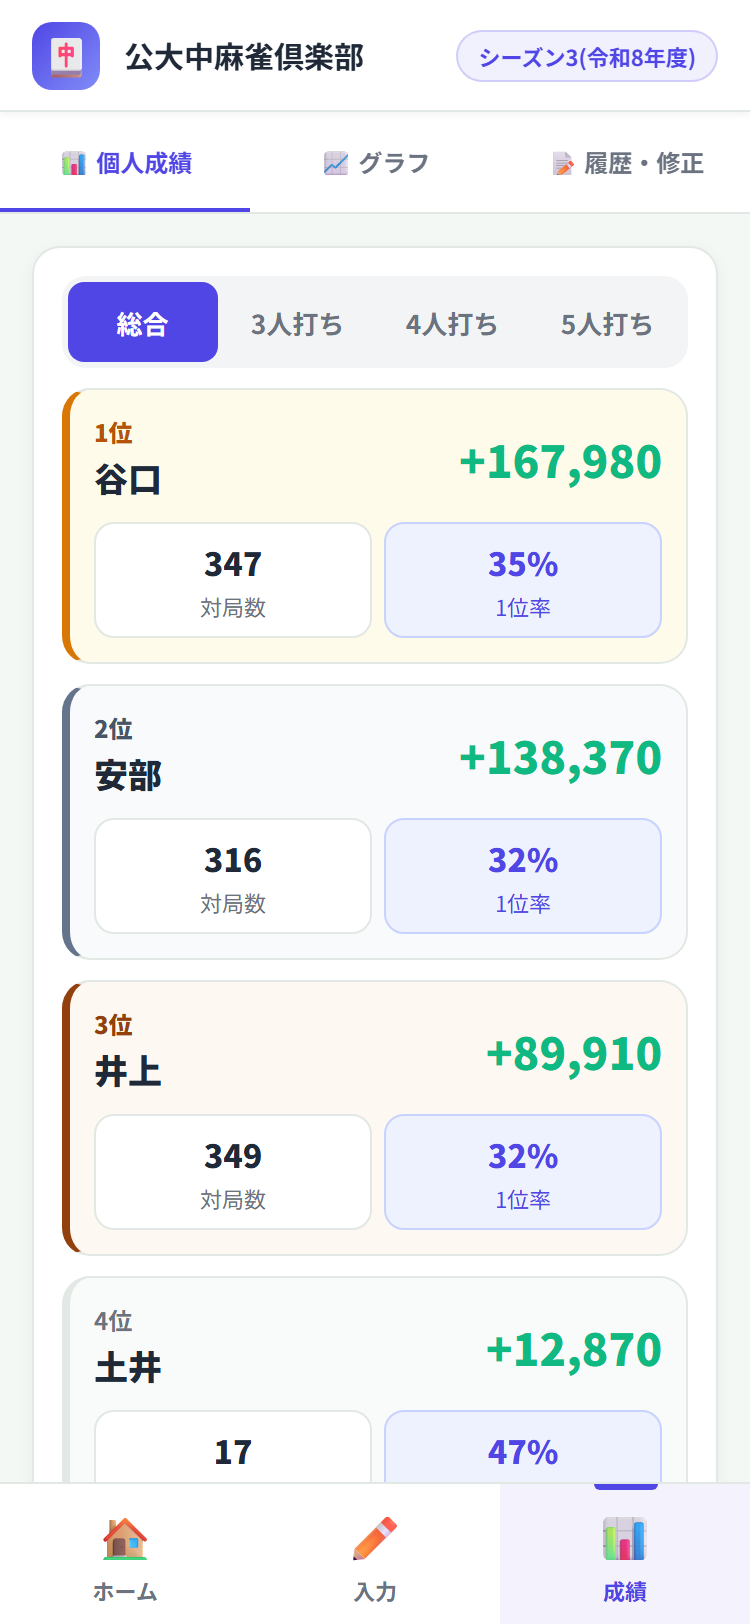
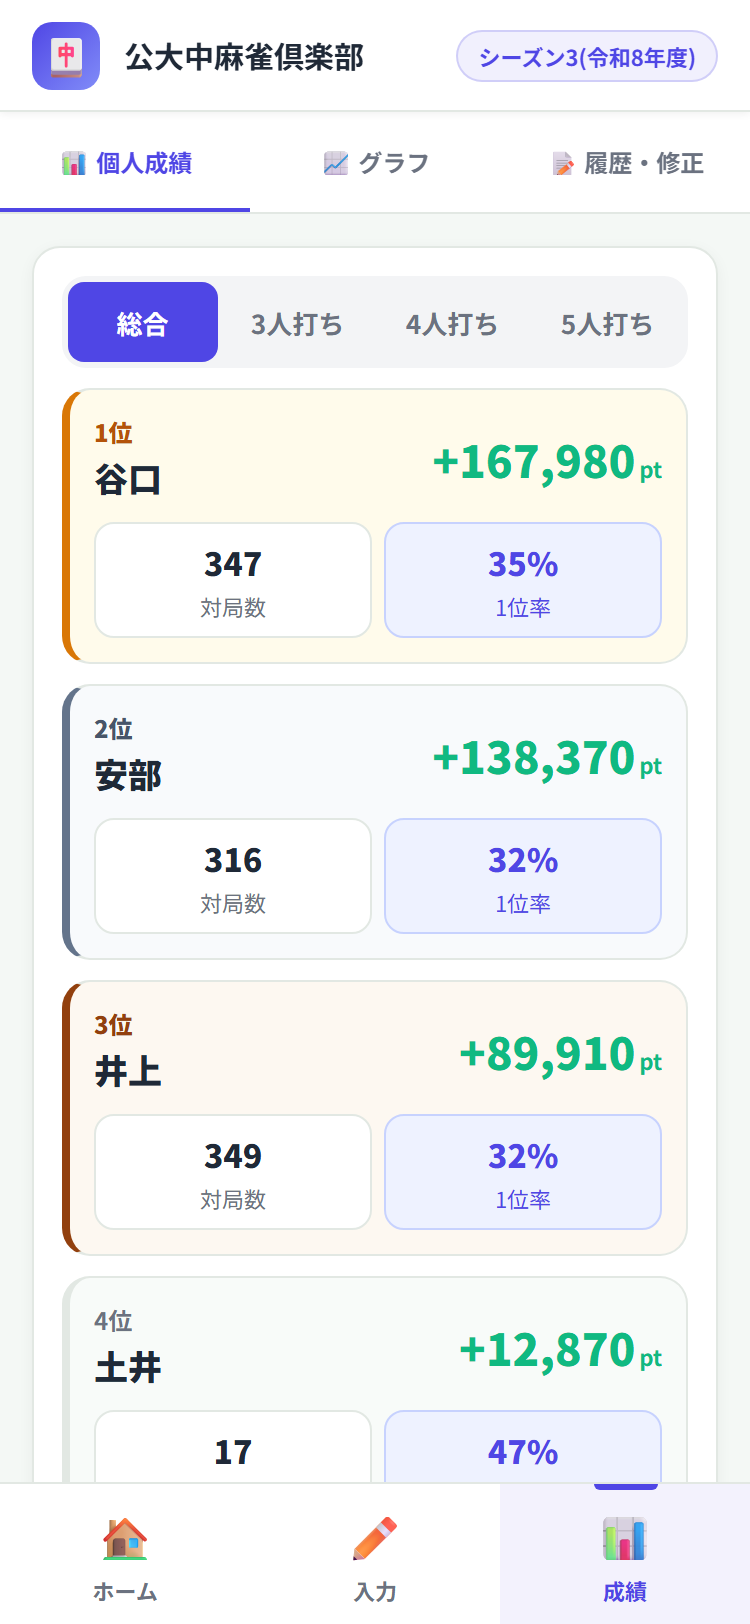
style: ptの単位表示・順位の色の統一・グラフの色の割り当てを修正
1. pt の単位を表示
   - ホームの通算成績ランキングと、成績の個人成績の収支に「pt」を添えた
   - 単位は11pxにして数値を主役のまま保ち、12人が1画面に入る密度も維持

2. 順位の色を「1位=緑 / 最下位=赤」で3〜5人打ちで統一
   - 絶対順位ではなく人数に対する位置で色を決めるようにした
     3人: 緑 / 琥珀 / 赤
     4人: 緑 / 青 / 琥珀 / 赤
     5人: 緑 / 青 / 琥珀 / 橙 / 赤
   - 順位分布のチップは色で囲んだまま、文字色のコントラストを4.5:1以上に

3. グラフの色をプレイヤーごとに固定
   - 成績のグラフで 井上=琥珀 / 安部=橙 と似た色になっていたのを解消
     （安部をインディゴにし、井上の琥珀と明確に分けた）
   - PLAYER_COLORS で色相を離して手で割り当て、同じ人がホームのグラフと
     成績のグラフで同じ色になるようにした（以前はページごとに違っていた）
   - 未登録のプレイヤーは従来どおり順番に色を振る

4. 背景類の緑ベースはそのまま

検証
- scripts/measure-home.mjs : 3端末すべてで12人/12人 ✅（1行 40.5px）
- scripts/verify-visual.mjs: 数値・順位・件数が18項目すべて一致、
  pt の単位が付いていることも確認、コンソールエラー0件
- scripts/contrast.mjs     : 今回変更した色の未達0件
- scripts/shots.mjs        : 375/430px で横スクロール0件
- 既存テスト: test-scoring 26/26 / verify 11/11 / verify-ui 10/10 /
  verify-compat 744対局 / verify-history 24/24 / test-ui-flow 28/28 /
  test-history-ui 36/36

diff --git a/history.html b/history.html
@@ -271,6 +271,27 @@ const DATA_START = '2026-04-07';
 const _params = new URLSearchParams(location.search);
 const currentSeasonId = _params.get('season');
 const CHART_COLORS = ['#4f46e5','#10b981','#f59e0b','#ef4444','#8b5cf6','#06b6d4','#fb923c','#e879f9','#0ea5e9','#84cc16','#f43f5e','#14b8a6','#a855f7','#f97316','#64748b'];
+// グラフの色はプレイヤーごとに固定する。
+// よく一緒に打つ人同士が似た色にならないよう、色相を離して手で割り当てている。
+// （同じ人がホームのグラフと成績のグラフで同じ色になる）
+const PLAYER_COLORS = {
+  '安部': '#4f46e5', // インディゴ
+  '井上': '#f59e0b', // 琥珀
+  '谷口': '#10b981', // 緑
+  '中田': '#84cc16', // ライム
+  '豊田': '#ef4444', // 赤
+  '酒井': '#0ea5e9', // 空色
+  '藤田': '#a855f7', // パープル
+  '坂井': '#14b8a6', // ティール
+  '森田': '#f43f5e', // ローズ
+  '大和': '#06b6d4', // シアン
+  '土井': '#fb923c', // 橙
+  '金子': '#e879f9', // フクシア
+  '高橋': '#64748b', // スレート
+  'その他': '#94a3b8',
+};
+// 未登録のプレイヤーは従来どおり順番に色を振る
+const colorFor = (name, idx) => PLAYER_COLORS[name] || CHART_COLORS[idx % CHART_COLORS.length];
 
 const { createClient } = window.supabase;
 const sb = createClient(SUPABASE_URL, SUPABASE_KEY);
@@ -420,19 +441,25 @@ function renderStats() {
     const rank = i + 1;
     const pts  = s.totalPt;
     const cls  = pts > 0 ? 'positive' : pts < 0 ? 'negative' : 'neutral';
-    const str  = (pts > 0 ? '+' : '') + pts.toLocaleString();
+    const str  = (pts > 0 ? '+' : '') + pts.toLocaleString() + '<span class="unit">pt</span>';
     const avg  = s.games ? (s.rankSum / s.games).toFixed(2) : '-';
     const pct  = n => s.games ? (n / s.games * 100).toFixed(0) + '%' : '0%';
     // 総合タブは平均順位を表示しない（人数別タブのみ表示）。stat-itemはflex:1なので残りが等幅になる
     const avgHTML = filter === null ? ''
       : `<div class="stat-item"><div class="stat-item-value">${avg}</div><div class="stat-item-label">平均順位</div></div>`;
-    const r4h  = filter === null || filter !== 3 ? `<div class="rank-dist-chip r4">4位 ${s.r4}(${pct(s.r4)})</div>` : '';
-    const r5h  = filter === null || filter === 5 ? `<div class="rank-dist-chip r4">5位 ${s.r5}(${pct(s.r5)})</div>` : '';
+    // 順位の色は「1位=緑 / 最下位=赤」。3人・4人・5人打ちで統一する
+    const distCls = (rank, n) => {
+      if (rank === 1) return 'rd-1';
+      if (rank === n) return 'rd-last';
+      if (n === 4) return rank === 2 ? 'rd-2' : 'rd-3';
+      if (n === 5) return rank === 2 ? 'rd-2' : rank === 3 ? 'rd-3' : 'rd-4';
+      return 'rd-3';
+    };
+    const distChip = (rank, cnt) =>
+      `<div class="rank-dist-chip ${distCls(rank, filter)}">${rank}位 ${cnt}(${pct(cnt)})</div>`;
+    const counts = [s.r1, s.r2, s.r3, s.r4, s.r5];
     const rankDist = filter === null ? '' : `<div class="rank-dist">
-        <div class="rank-dist-chip r1">1位 ${s.r1}(${pct(s.r1)})</div>
-        <div class="rank-dist-chip r2">2位 ${s.r2}(${pct(s.r2)})</div>
-        <div class="rank-dist-chip r3">3位 ${s.r3}(${pct(s.r3)})</div>
-        ${r4h}${r5h}
+        ${Array.from({ length: filter }, (_, i) => distChip(i + 1, counts[i])).join('')}
       </div>`;
     return `<div class="player-stat${rank <= 3 ? ` pr-${rank}` : ''}">
       <div class="player-stat-header">
@@ -547,7 +574,7 @@ function renderGraphMode1() {
       cum += cg.records.filter(c => String(c.player_id) === String(p.id)).reduce((s, c) => s + (c.chip_pt || 0), 0);
       data.push(cum);
     });
-    const color = CHART_COLORS[idx % CHART_COLORS.length];
+    const color = colorFor(p.name, idx);
     const hidden = !selectedPlayerIds.has(String(p.id));
     datasets.push({ label:p.name, data, borderColor:color, backgroundColor:color+'22', tension:0.3, fill:false, pointRadius:2, borderWidth:2, hidden });
     legendItems.push({ name:p.name, color, pid: String(p.id) });
@@ -614,7 +641,7 @@ function renderGraphMode2() {
       return cum;
     });
     if (data.every(v => v === 0)) return;
-    const color = CHART_COLORS[idx % CHART_COLORS.length];
+    const color = colorFor(p.name, idx);
     const hidden = !selectedPlayerIds.has(String(p.id));
     datasets.push({ label:p.name, data, borderColor:color, backgroundColor:color+'22', tension:0.3, fill:false, pointRadius:2, borderWidth:2, hidden });
     legendItems.push({ name:p.name, color, pid: String(p.id) });

diff --git a/index.html b/index.html
@@ -210,6 +210,27 @@ const { createClient } = window.supabase;
 const sb = createClient(SUPABASE_URL, SUPABASE_KEY);
 
 const CHART_COLORS = ['#4f46e5','#10b981','#f59e0b','#ef4444','#8b5cf6','#06b6d4','#fb923c','#e879f9','#0ea5e9','#84cc16','#f43f5e','#14b8a6','#a855f7','#f97316','#64748b'];
+// グラフの色はプレイヤーごとに固定する。
+// よく一緒に打つ人同士が似た色にならないよう、色相を離して手で割り当てている。
+// （同じ人がホームのグラフと成績のグラフで同じ色になる）
+const PLAYER_COLORS = {
+  '安部': '#4f46e5', // インディゴ
+  '井上': '#f59e0b', // 琥珀
+  '谷口': '#10b981', // 緑
+  '中田': '#84cc16', // ライム
+  '豊田': '#ef4444', // 赤
+  '酒井': '#0ea5e9', // 空色
+  '藤田': '#a855f7', // パープル
+  '坂井': '#14b8a6', // ティール
+  '森田': '#f43f5e', // ローズ
+  '大和': '#06b6d4', // シアン
+  '土井': '#fb923c', // 橙
+  '金子': '#e879f9', // フクシア
+  '高橋': '#64748b', // スレート
+  'その他': '#94a3b8',
+};
+// 未登録のプレイヤーは従来どおり順番に色を振る
+const colorFor = (name, idx) => PLAYER_COLORS[name] || CHART_COLORS[idx % CHART_COLORS.length];
 let S = { players:[], games:[], results:[], chips:[], memos:[], rankTab:'all' };
 let summaryGroups = [];
 let groupChart = null;
@@ -475,7 +496,7 @@ function renderGroupChart(dayGames, playerTotals, date, groupName) {
 
   const pids = Object.keys(playerTotals);
   const datasets = pids.map((pid, idx) => {
-    const color = CHART_COLORS[idx % CHART_COLORS.length];
+    const color = colorFor(playerTotals[pid].name, idx);
     let cum = 0;
     const data = gameIds.map(gid => {
       const r = dayResults.find(x => String(x.game_id) === String(gid) && String(x.player_id) === String(pid));
@@ -490,7 +511,7 @@ function renderGroupChart(dayGames, playerTotals, date, groupName) {
   });
 
   legendEl.innerHTML = pids.map((pid, idx) => {
-    const color = CHART_COLORS[idx % CHART_COLORS.length];
+    const color = colorFor(playerTotals[pid].name, idx);
     return `<div class="legend-item"><div class="legend-dot" style="background:${color}"></div><span style="font-size:11px;color:var(--muted)">${esc(playerTotals[pid].name)}</span></div>`;
   }).join('');
   legendEl.style.display = 'flex';
@@ -579,7 +600,7 @@ function renderRankings() {
     const avg  = (s.rankSum / s.games).toFixed(2);
     const pts  = s.totalPt;
     const cls  = pts > 0 ? 'positive' : pts < 0 ? 'negative' : 'neutral';
-    const str  = (pts > 0 ? '+' : '') + pts.toLocaleString();
+    const str  = (pts > 0 ? '+' : '') + pts.toLocaleString() + '<span class="unit">pt</span>';
     const bc   = rank <= 3 ? `rank-${rank}` : 'rank-n';
     // 総合タブは平均順位を表示しない（人数別タブのみ表示）
     const sub  = filter === null ? `${s.games}戦` : `${s.games}戦 · 平均 ${avg} 位`;

diff --git a/common.css b/common.css
@@ -159,7 +159,8 @@ body { padding-bottom: calc(90px + env(safe-area-inset-bottom)); }
 .stat-row .stat-item:last-child .stat-item-value { color: var(--primary); }
 .stat-row .stat-item:last-child .stat-item-label { color: var(--primary); }
 
-/* 順位分布は色で囲んだチップのまま、順位ごとに色を強める */
+/* 順位分布は色で囲んだチップ。1位=緑 / 最下位=赤 を3〜5人打ちで統一し、
+   間は緑→赤の並びになる色を使う（クラスは人数に応じてJSが割り当てる） */
 .rank-dist { gap: 5px; margin-top: 8px; }
 .rank-dist-chip {
   padding: 5px 9px;
@@ -168,7 +169,16 @@ body { padding-bottom: calc(90px + env(safe-area-inset-bottom)); }
   font-weight: 700;
   border-width: 1.5px;
 }
-.rank-dist-chip.r1 { background: #fef3c7; color: #b45309; border-color: #fcd34d; }
-.rank-dist-chip.r2 { background: #eef2ff; color: #4338ca; border-color: #c7d2fe; }
-.rank-dist-chip.r3 { background: #ecfdf5; color: #047857; border-color: #a7f3d0; }
-.rank-dist-chip.r4 { background: #fef2f2; color: #b91c1c; border-color: #fecaca; }
+.rank-dist-chip.rd-1    { background: #ecfdf5; color: #047857; border-color: #6ee7b7; } /* 1位 緑 */
+.rank-dist-chip.rd-2    { background: #eff6ff; color: #1d4ed8; border-color: #93c5fd; } /* 青 */
+.rank-dist-chip.rd-3    { background: #fef3c7; color: #854d0e; border-color: #fcd34d; } /* 琥珀 */
+.rank-dist-chip.rd-4    { background: #fff7ed; color: #c2410c; border-color: #fdba74; } /* 橙 */
+.rank-dist-chip.rd-last { background: #fef2f2; color: #b91c1c; border-color: #fca5a5; } /* 最下位 赤 */
+
+/* 収支の数値に付ける「pt」は小さく添える（数値を主役のままにする） */
+.rank-pts .unit,
+.player-stat-pt .unit {
+  font-size: 11px;
+  font-weight: 700;
+  margin-left: 2px;
+}
